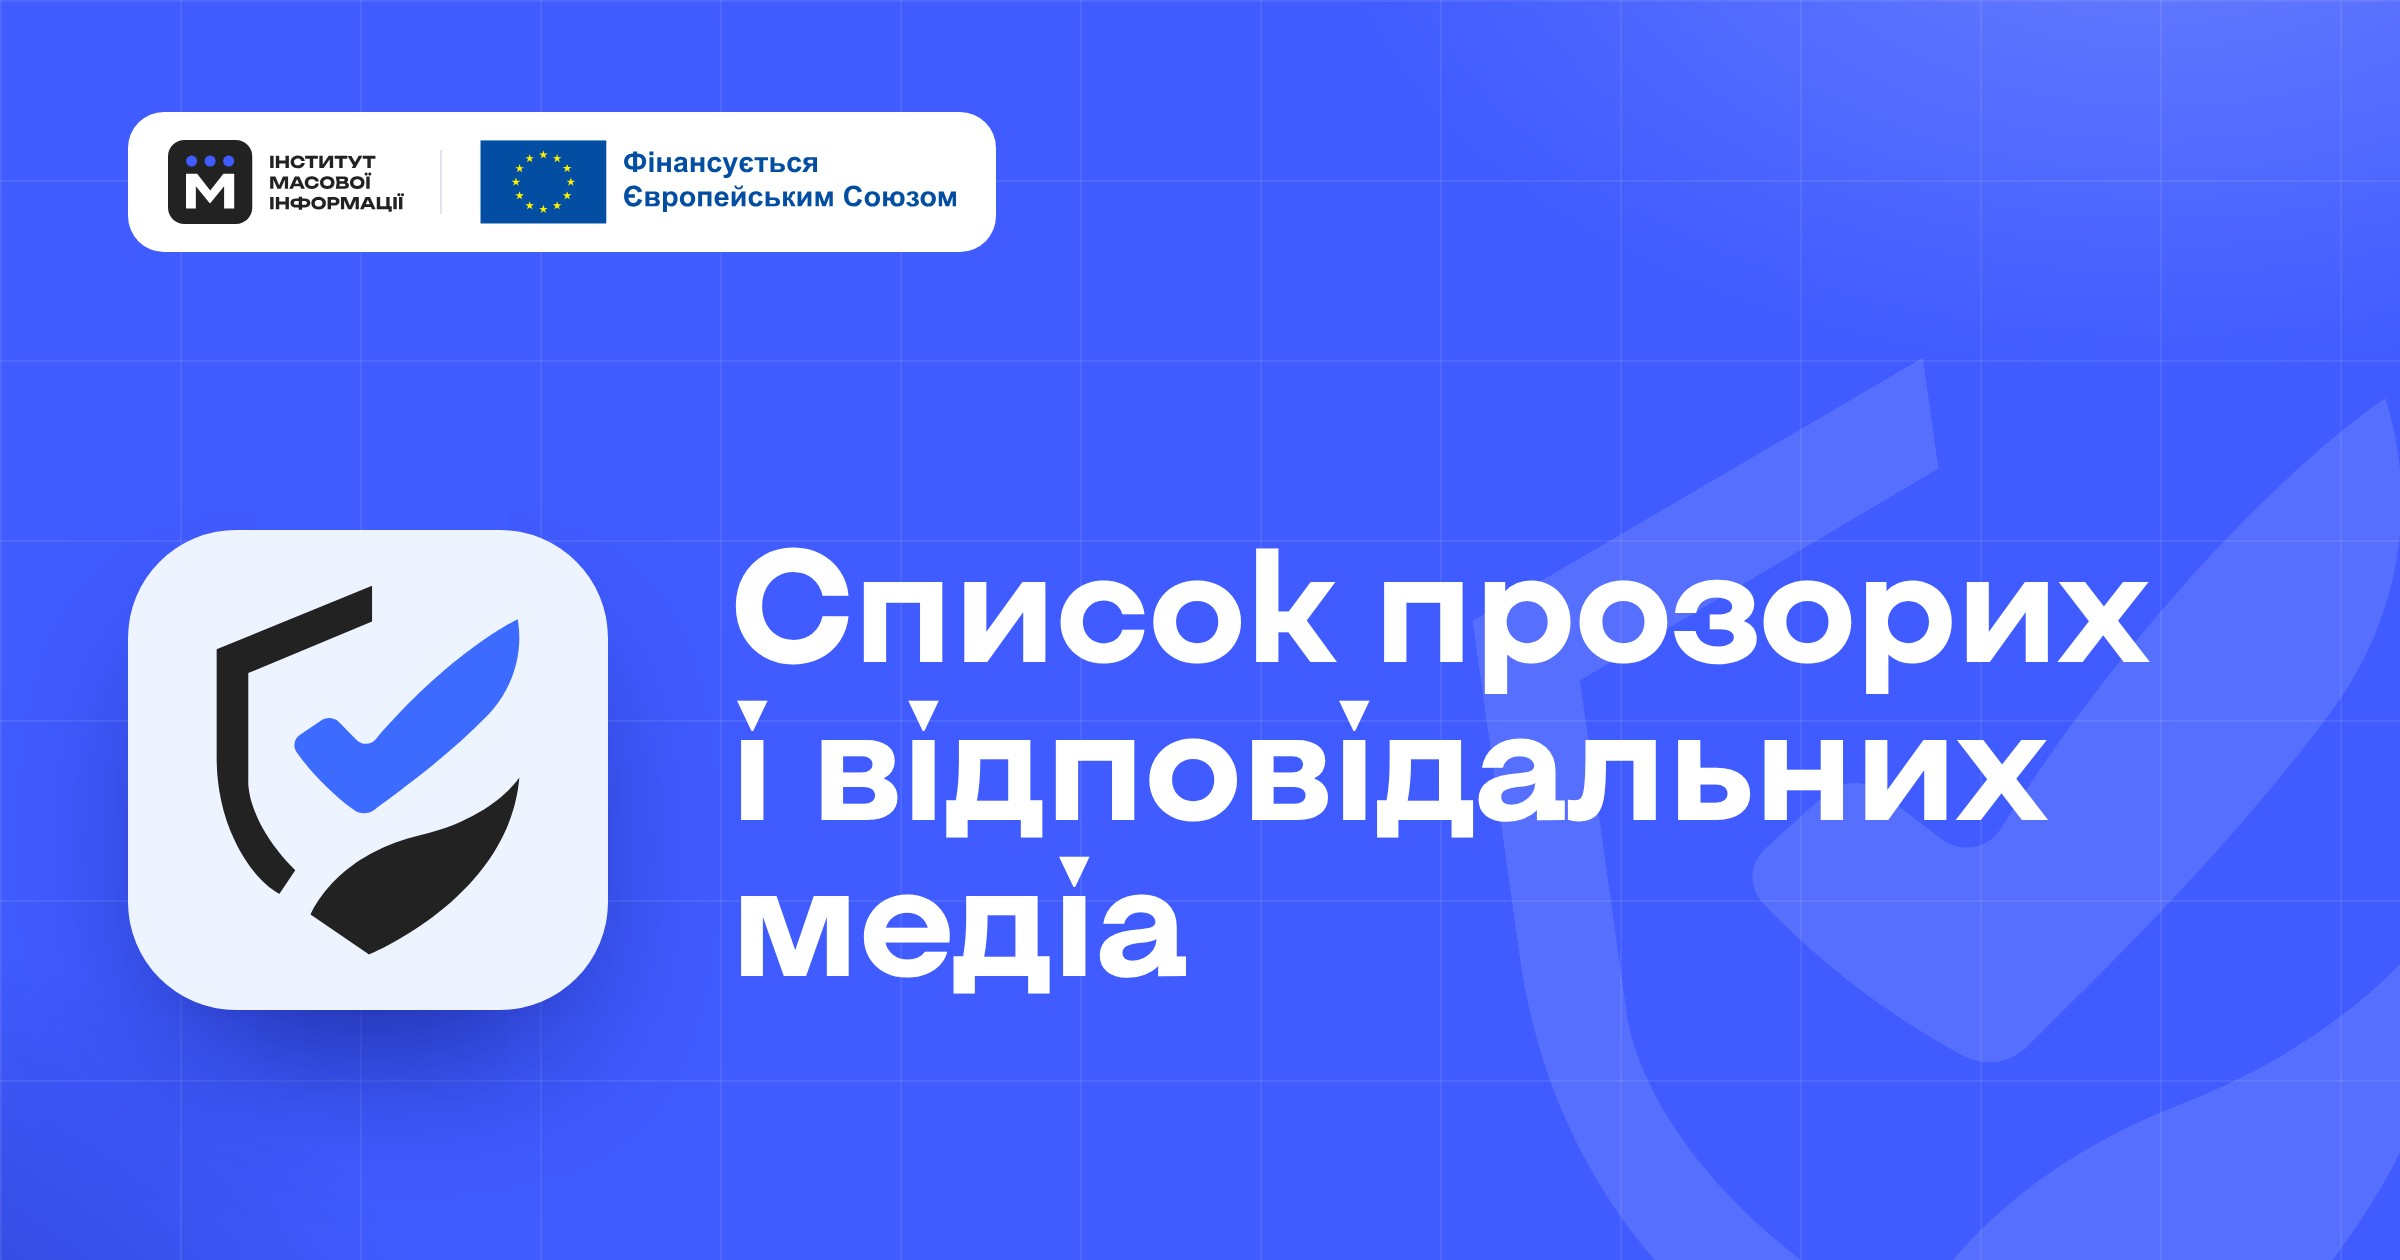
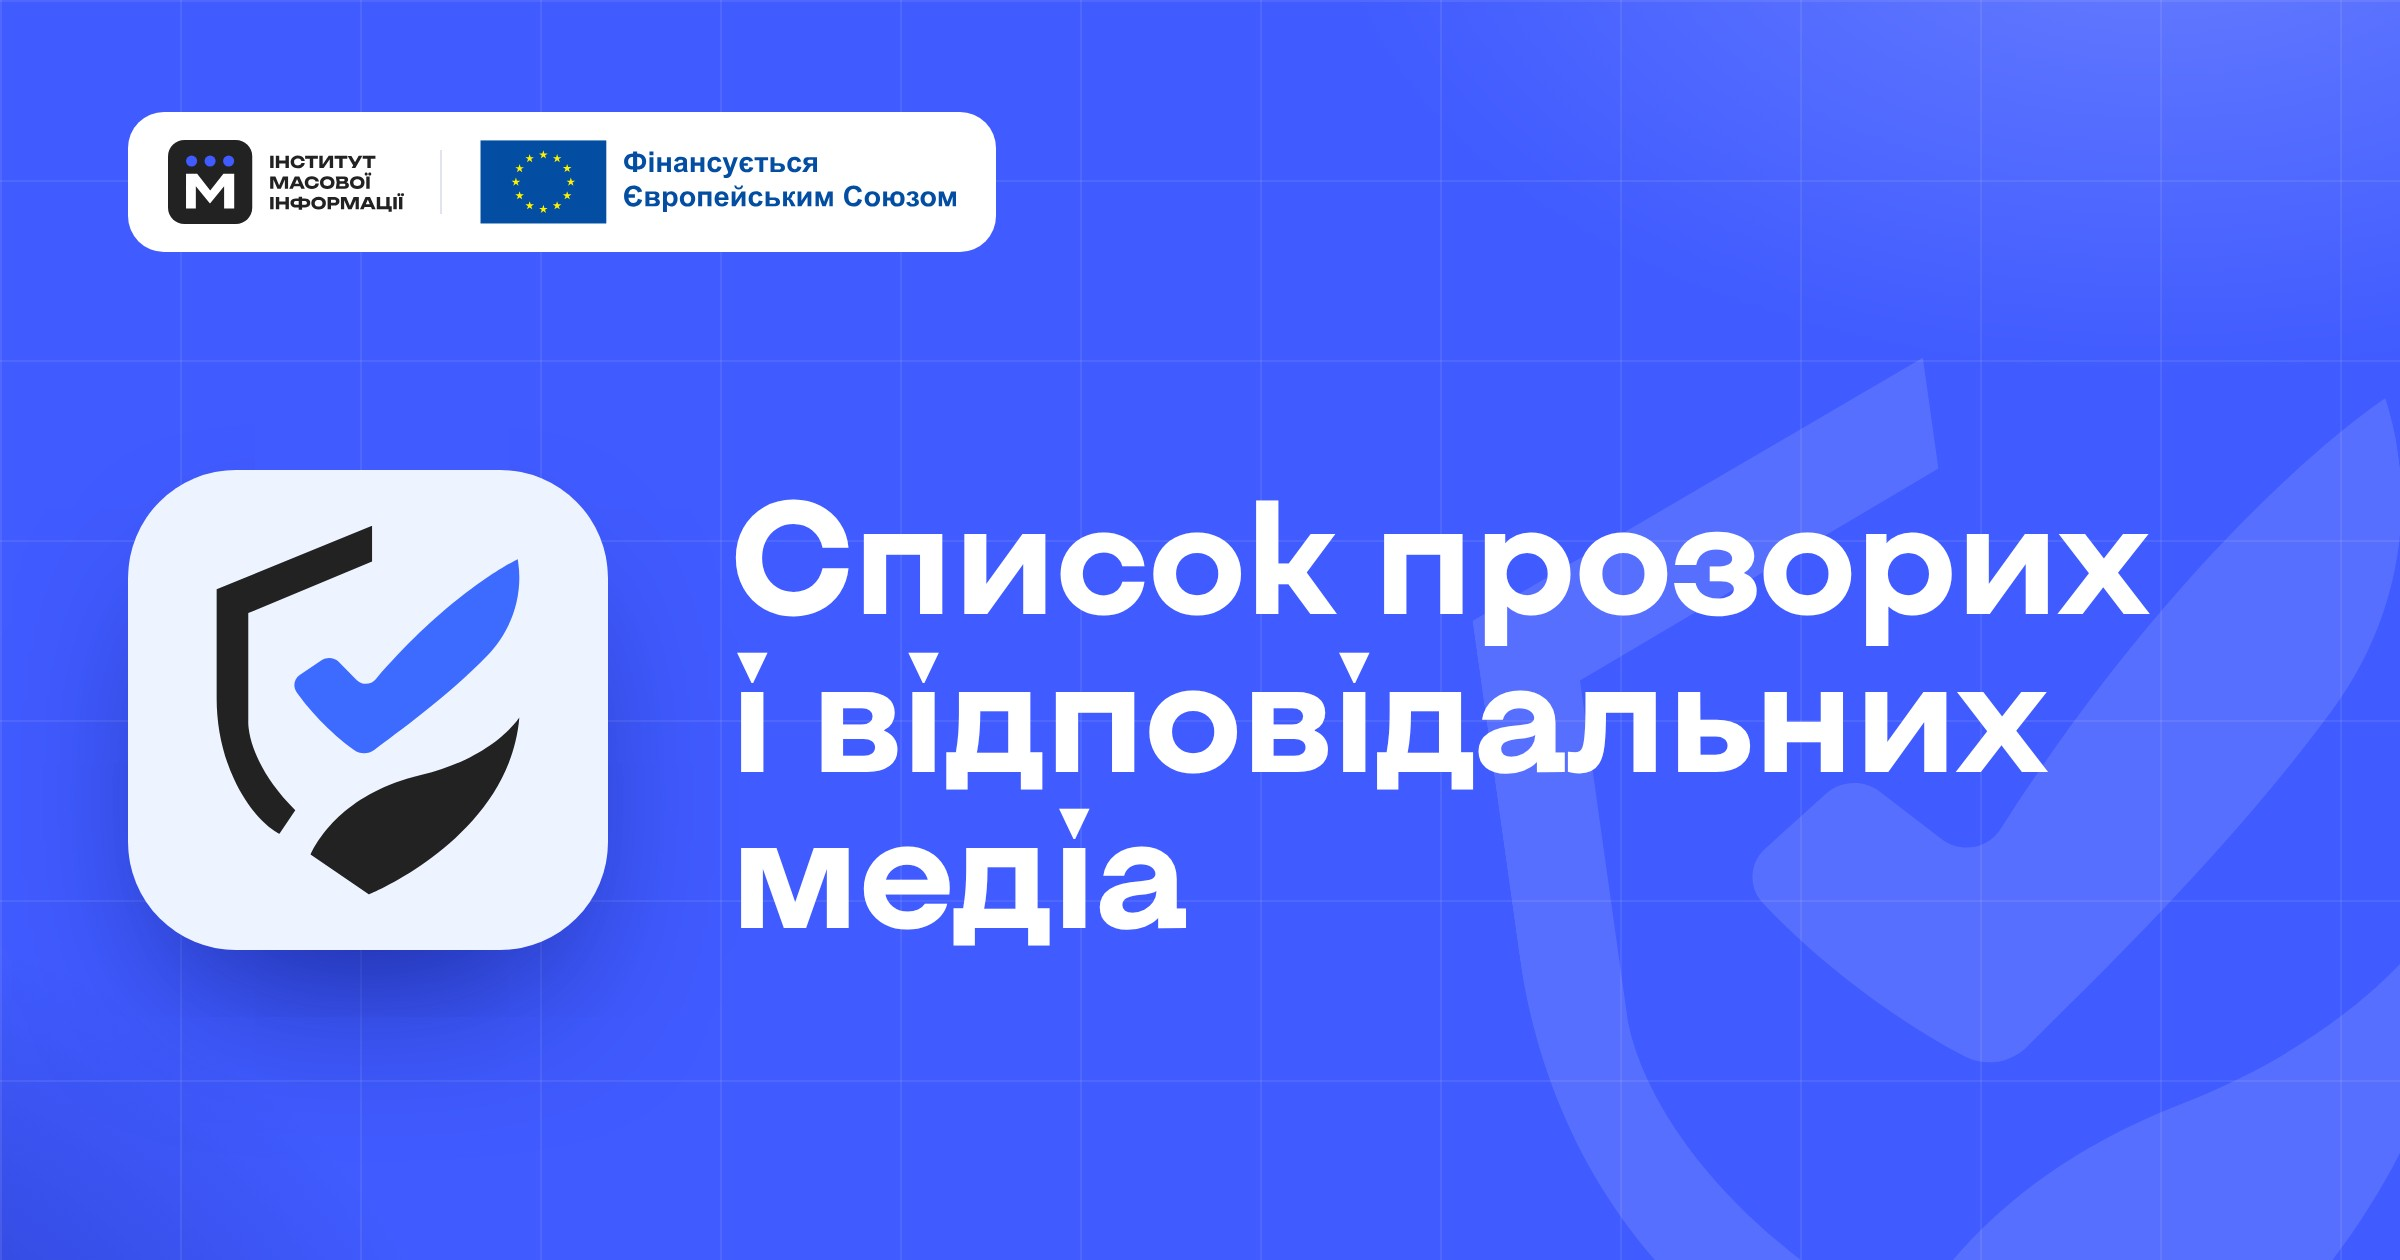
Превʼю для соцмереж: композиція вище, текст оптично по центру іконки
Claude-Session: https://claude.ai/code/session_014f3fYSp6T3rwkWNcdGh2fc

Changed region(s): [[0.0312, 0.3714, 0.9062, 0.8667]]

diff --git a/index.html b/index.html
@@ -7,7 +7,7 @@
 <meta name="description" content="Білий список Інституту масової інформації: загальноукраїнські онлайн-медіа з найвищим рівнем дотримання професійних стандартів. Оновлюється двічі на рік, з 2019 року.">
 <meta property="og:title" content="Білий список ІМІ — Список прозорих і відповідальних медіа">
 <meta property="og:description" content="Онлайн-медіа з найвищим рівнем дотримання професійних стандартів за моніторингами ІМІ. Архів усіх випусків з 2019 року.">
-<meta property="og:image" content="https://tomasmikkelson-arch.github.io/white/assets/og-image.jpg">
+<meta property="og:image" content="https://tomasmikkelson-arch.github.io/white/assets/og-image.jpg?v=2">
 <meta property="og:image:width" content="2400">
 <meta property="og:image:height" content="1260">
 <meta property="og:image:alt" content="Білий список ІМІ — Список прозорих і відповідальних медіа">
@@ -16,7 +16,7 @@
 <meta property="og:site_name" content="Інститут масової інформації">
 <meta property="og:locale" content="uk_UA">
 <meta name="twitter:card" content="summary_large_image">
-<meta name="twitter:image" content="https://tomasmikkelson-arch.github.io/white/assets/og-image.jpg">
+<meta name="twitter:image" content="https://tomasmikkelson-arch.github.io/white/assets/og-image.jpg?v=2">
 <meta name="theme-color" content="#405BFF">
 <link rel="icon" href="assets/wl-icon.svg" type="image/svg+xml">
 <link rel="apple-touch-icon" href="assets/apple-touch-icon.png">

diff --git a/tools/og-image.html b/tools/og-image.html
@@ -60,9 +60,9 @@ h1 { font-family: "KyivType Sans"; font-weight: 700; letter-spacing: -.025em; }
 #d .grid { position: absolute; inset: 0; background-image: linear-gradient(rgba(255,255,255,.08) 1px, transparent 1px), linear-gradient(90deg, rgba(255,255,255,.08) 1px, transparent 1px); background-size: 90px 90px; }
 #d .mark { position: absolute; right: -30px; bottom: -120px; width: 470px; opacity: .12; transform: rotate(-8deg); }
 #d .logos { position: absolute; left: 64px; top: 56px; }
-#d .row { position: absolute; left: 64px; right: 64px; top: 182px; bottom: 56px; display: flex; align-items: center; gap: 60px; }
+#d .row { position: absolute; left: 64px; right: 64px; top: 152px; bottom: 86px; display: flex; align-items: center; gap: 60px; }
 #d .icon { width: 240px; height: 240px; flex: none; margin-top: 14px; border-radius: 54px; box-shadow: 0 40px 80px -30px rgba(10,20,110,.8); }
-#d h1 { font-size: 80px; line-height: .98; }
+#d h1 { font-size: 80px; line-height: .98; transform: translateY(6px); }
 .show-d #d { display: block; }
 </style></head>
 <body>
